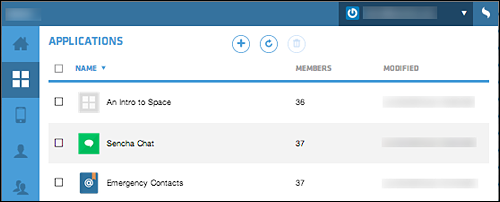
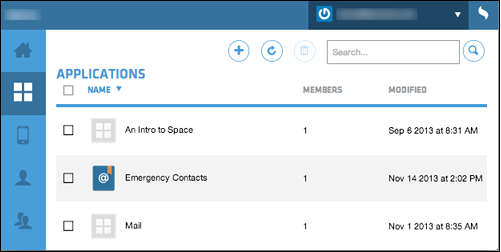
Fixes for BROW-1512, BROW-1508, BROW-1509

diff --git a/docs/guides/manager_guide/README.md b/docs/guides/manager_guide/README.md
@@ -81,14 +81,14 @@ The top menu contains these buttons:
 <table border="1" style="width: 600px">
 <tr><th>Icon</th><th>Description</th></tr>
 <tr><td>{@img Space_Ad_AdminMenu.png}</td>
-  <td><a href="#AdminMenu">Admin Menu</a> - Edit the admin profile, 
-  switch organizations, or log out of Sencha Space</td></tr>
+<td><a href="#AdminMenu">Admin Menu</a> - Edit the admin profile 
+or log out of Sencha Space</td></tr>
 <tr><td>{@img Space_Ad_SenchaIcon.png}</td>
-  <td><a href="#SenchaMenu">Sencha Menu</a> - View a log of your recent
+<td><a href="#SenchaLogMenu">Sencha Log Menu</a> - View a log of your recent
 actions.</td></tr>
 </table>
 
-**Icons**:
+<b>Icons</b>:
 
 These icons provide additional controls on tabs:
 
@@ -170,6 +170,7 @@ with ways for users to get help or learn how to use their client.
 
 The Applications tab lists:
 
+ - Controls - Add an application, refresh the list, delete an application, and search applications.
  - Name - Application name
  - Members - Number of users who are permitted to use the application
  - Modified - Last modification date of the application
@@ -221,6 +222,14 @@ from a device.
 
 {@img DevicesTab.png}
 
+Tasks:
+
+ - Click the Refresh arrow to update the devices list.
+ - Click a checkbox and the trashcan icon to wipe out all Space Client data on a device.
+ - Search for a device.
+
+Lists:
+
  - Device - Device name
  - User - Device's owner - This name is set on the <a href="#UsersTab">Users tab</a>
  - Last Access - Last use of Space Client by the device
@@ -261,9 +270,14 @@ and remove a user.
 
 {@img SpaceMgrUsers.png}
  
-Click a user name to view more information about the user. 
-Click the plus icon to invite a user. 
-Click a checkbox and the trash icon to delete a user.
+Tasks:
+
+ - Click a user name to view more information about the user. 
+ - Click the plus icon to invite a user. 
+ - Click a checkbox and the trash icon to delete a user.
+ - Search for a user or user information.
+
+Lists:
 
  - Name - User name
  - Last Active - When the user last used the Space Client
@@ -312,6 +326,21 @@ To invite a user:
 3. Click **Invite**.
 
 You can invite a user more than once if needed. 
+
+### User Signup Process
+
+Sencha Space uses the following process to sign up users you invite:
+
+{@img SignUpProcess.png}
+
+The process is:
+
+<ol>
+<li>Users receive email with an invitation link. The link goes to the
+Sencha Space registration page</li>
+<li>text</li>
+<li>text</li>
+</ol>
 
 ### Remove a User
 
@@ -419,11 +448,11 @@ contact and billing information.
 
 Settings sections:
 <ul>
-<li><a href="#GeneralSettings">General Settings</a></li>
-<li><a href="#SecuritySettings">Security Settings</a></li>
-<li><a href="#AuthenticationSettings">Authentication Settings</a></li>
-<li><a href="#SubscriptionSettings">Subscription Settings</a></li>
-<li><a href="#BillingSettings">Billing Settings</a></li>
+<li><a href="#GeneralSettings">General</a></li>
+<li><a href="#SecuritySettings">Security Policy</a></li>
+<li><a href="#AuthenticationSettings">Authentication</a></li>
+<li><a href="#SubscriptionSettings">Subscription</a></li>
+<li><a href="#BillingSettings">Billing</a></li>
 </ul>
 
 <a name="GeneralSettings"></a>
@@ -445,7 +474,7 @@ or <code>ggmailto</code> value.</li>
 {@img GeneralSettings.png}
 
 <a name="SecuritySettings"></a>
-### Security Settings
+### Security Policy
 
 <b>Important</b>: When you change any of the 
 options in the Security Policy, all users are sent 
@@ -465,32 +494,57 @@ be lost or stolen, but the duration gives users more time
 to perform other activities before being reprompted 
 when returning to the Space Client. The duration can be set to minutes,
 hours, days, weeks, or months.</li>
-<li>PIN Type (slider) - Slide to <b>None</b> to not require a PIN or password 
-when users access the Space client on their mobile device - only use this 
-setting during debugging, 
-slide to <b>Number</b> to require users to supply a PIN for authentication, 
-slide to <b>Secure</b> to require a secure password that has a combination
-of letters, numbers, and special characters. A password must consist of at
+<li>PIN Type (slider) - Slide to:
+<table style="width: 80%" border="1">
+<tr><th>Value</th><th>Description</th><th>Example</th></tr>
+<tr><td><b>None</b></td><td>Users don't use a PIN to access the Space client. 
+Only use this setting during debugging.</td><td>1234</td></tr>
+<tr><td><b>Numeric</b></td><td>Require users to enter a numeric
+PIN. The numeric keypad appears and only permits values 
+of 0 1 2 3 4 5 6 7 8 9.</td><td>1234</td></tr>
+<tr><td><b>Alphabetic</b></td><td>Require users to specify a PIN consisting
+of at least 4 letters. Users see the device's default keyboard.</td>
+<td>abcdef</td></tr>
+<tr><td><b>Alphanumeric</b></td><td>Require users to enter a PIN consisting
+of at least 4 letters and numbers.  Users see the device's default keyboard.</td>
+<td>a1b2c3d4</td></tr>
+<tr><td><b>Complex</b></td><td>Require a secure PIN that has a combination
+of letters, numbers, and special characters. A PIN must consist of at
 least 4 characters, have at least one number, letter, and special character, 
-and can be any length.</li>
+and can be any length. Users see the device's default keyboard.</td>
+<td>!MyP1n</td></tr>
+<table></li>
 <li>PIN Minimum Length - The least number of numbers a user can enter
 to be authenticated in the Space client. The default is 6 digits.</li>
 <li>Lock Out After Failed PIN Attempts - The number of tries a user gets to supply
 the correct PIN value before being locked out. The default is 10 attempts.
 If a user is locked out, the user must re-enter their username and password
-to gain access to the Space client.</li>
+to gain access to the Space client. The minimum is 2 tries.</li>
 <li>Max Time Working Offline Before Automatic Log Out - Maximum 
-duration that a user can 
-perform other activities outside the Space Client before being 
-automatically logged off. The duration
+duration that a user can perform other activities outside the Space Client 
+before being automatically logged off. The duration
 can be set to an amount of minutes, hours, days, weeks, or months.</li>
 <li>Save - Save settings.</li>
 </ul>
 
+<b>Notes</b>: 
+<ol>
+<li>A PIN requiring letters can be any character on the device's
+keyboard including international characters.</li>
+<li>If you change a value in the security policy, a message may display
+indicating that a value changed. However, the value is not changed in the
+security policy until you click the <b>Save</b> button.</li>
+<li>Changes to the security policy appear in the 
+<a href="#SenchaLogMenu">Sencha Log Menu</a> - however, some messages
+may indicate changes prior to clicking the <b>Save</b> button.</li>
+</ol>
+
+
+
 {@img SecurityPolicySettings.png}
 
 <a name="AuthenticationSettings"></a>
-### Authentication Settings
+### Authentication
 
 Lets you set:
 <ul>
@@ -519,7 +573,7 @@ to Sencha Space.</li>
 {@img AuthenticationSettings.png}
 
 <a name="SubscriptionSettings"></a>
-### Subscription Settings
+### Subscription
 
 Lets you change your Space subscription, which depends on how many users,
 users per device, and apps your organization requires.
@@ -530,7 +584,7 @@ To upgrade or downgrade, click <b>Change</b> for the subscription option
 you require.
 
 <a name="BillingSettings"></a>
-### Billing Settings
+### Billing
 
 Information about your Space Manager subscription:
 <ul>
@@ -574,23 +628,11 @@ Add or change:
  - Confirm New Password
 
 You can also click <b>X Block</b> to block the administrator, or click
-**Remove User** to remove your access to Sencha Space.
+<b>Remove User</b> to remove your access to Sencha Space.
 
 
-#### Add or Change an Organization
-
-Add an organization by clicking **Add** in the Organizations menu. 
-
-Fields:
-
- - Name - Organization name
- - Code - A keyword to describe the organization
- - Users - Total number of users in the organization
- - Groups - Total number of groups in the organization
- - Apps - Total number of apps available to Space Client users
-
-<a name="SenchaMenu"></a>
-## Sencha Menu
+<a name="SenchaLogMenu"></a>
+## Sencha Log Menu
 
 Lists your recent activities. Each time the browser refreshes, 
 the previous entries no longer display.
